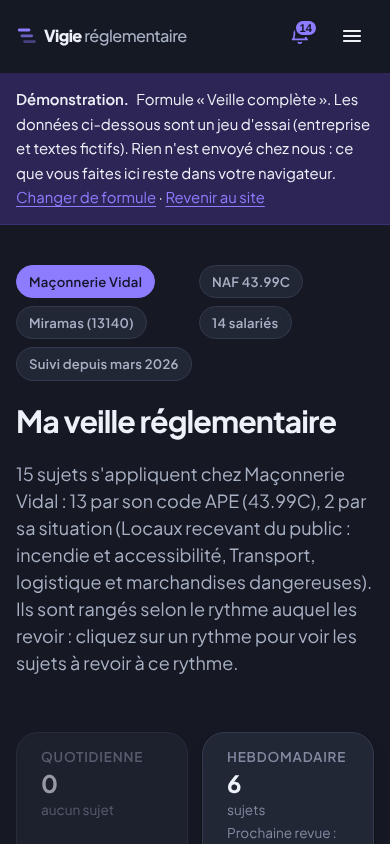
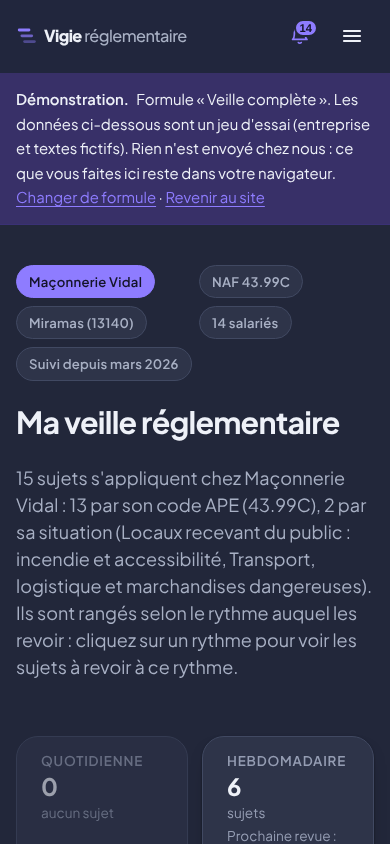
Harmonisation de tout le site, mode sombre éclairci, téléchargements en haut à droite des tableaux
- Une seule échelle de titres (page, section, carte), des textes alignés à
  gauche sans mots coupés, des cartes aux mêmes arrondis, marges et
  espacements.
- Pleine largeur : Réglages (cartes en deux colonnes), Mon compte, paiement,
  pages légales (sommaire à gauche).
- Mode sombre : fonds, cartes et filets éclaircis d'un cran.
- Accueil : « 732 codes APE couverts » retiré du haut de page.
- Captures refaites.

Claude-Session: https://claude.ai/code/session_018eHCodhqxxzNvWMueTAwHN

diff --git a/assets/site.css b/assets/site.css
@@ -75,22 +75,23 @@
        d'accent plus claire et plus saturée que celle du clair — sur du
        quasi-noir, l'indigo du jour devient gris.
        3 novembre 2026 : fonds et cartes éclaircis d'un cran, à la demande
-       d'Axel (« légèrement plus clair »). */
+       d'Axel (« légèrement plus clair ») ; 4 novembre 2026 : encore un cran
+       (« c'est trop foncé »). */
     --accent:        #8E7CFF;
     --accent-fonce:  #A99BFF;
-    --accent-clair:  #2C2556;
+    --accent-clair:  #383068;
     --accent-filet:  #3A3175;
     --encre:         #EEF1F8;
     --encre-douce:   #A8B0C4;
-    --encre-tenue:   #828AA0;
-    --papier:        #161923;
-    --papier-tein:   #1C202D;
-    --papier-pale:   #191C27;
-    --carte:         #222736;
-    --carte-pale:    #282E3F;
-    --creme:         #201E30;
-    --filet:         #333A4E;
-    --filet-fort:    #485069;
+    --encre-tenue:   #959DB3;
+    --papier:        #22273A;
+    --papier-tein:   #292F44;
+    --papier-pale:   #252A3E;
+    --carte:         #2E3449;
+    --carte-pale:    #353C53;
+    --creme:         #2C2A42;
+    --filet:         #414962;
+    --filet-fort:    #58617D;
     --filet-controle:#8C94AB;
     --vert:          #4ADE94;
     --vert-fond:     #0D3326;
@@ -106,7 +107,7 @@
        dégradé du thème clair, traduit arrêt par arrêt, virait au brun verdâtre. */
     --degrade-heros: radial-gradient(118% 86% at 16% -8%, rgba(142, 124, 255, .26), transparent 58%),
                      radial-gradient(96% 76% at 88% 6%, rgba(72, 196, 180, .13), transparent 54%),
-                     linear-gradient(180deg, #1D2130 0%, #161923 100%);
+                     linear-gradient(180deg, #2A2F44 0%, #22273A 100%);
     --degrade-puce:  linear-gradient(135deg, #2C2560, #1E2C4E 55%, #2A2168);
     --fil-rail:      linear-gradient(180deg, #4A3F93, #2C5467 45%, #4A3F93);
     --ombre-1: 0 1px 2px rgba(0, 0, 0, .5), 0 10px 24px -16px rgba(0, 0, 0, .8);
@@ -125,19 +126,19 @@
      3 novembre 2026 : fonds et cartes éclaircis d'un cran. */
   --accent:        #8E7CFF;
   --accent-fonce:  #A99BFF;
-  --accent-clair:  #2C2556;
+  --accent-clair:  #383068;
   --accent-filet:  #3A3175;
   --encre:         #EEF1F8;
   --encre-douce:   #A8B0C4;
-  --encre-tenue:   #828AA0;
-  --papier:        #161923;
-  --papier-tein:   #1C202D;
-  --papier-pale:   #191C27;
-  --carte:         #222736;
-  --carte-pale:    #282E3F;
-  --creme:         #201E30;
-  --filet:         #333A4E;
-  --filet-fort:    #485069;
+  --encre-tenue:   #959DB3;
+  --papier:        #22273A;
+  --papier-tein:   #292F44;
+  --papier-pale:   #252A3E;
+  --carte:         #2E3449;
+  --carte-pale:    #353C53;
+  --creme:         #2C2A42;
+  --filet:         #414962;
+  --filet-fort:    #58617D;
   --filet-controle:#8C94AB;
   --vert:          #4ADE94;
   --vert-fond:     #0D3326;
@@ -151,7 +152,7 @@
      dégradé du thème clair, traduit arrêt par arrêt, virait au brun verdâtre. */
   --degrade-heros: radial-gradient(118% 86% at 16% -8%, rgba(142, 124, 255, .26), transparent 58%),
                    radial-gradient(96% 76% at 88% 6%, rgba(72, 196, 180, .13), transparent 54%),
-                   linear-gradient(180deg, #1D2130 0%, #161923 100%);
+                   linear-gradient(180deg, #2A2F44 0%, #22273A 100%);
   --degrade-puce:  linear-gradient(135deg, #2C2560, #1E2C4E 55%, #2A2168);
   --fil-rail:      linear-gradient(180deg, #4A3F93, #2C5467 45%, #4A3F93);
   --ombre-1: 0 1px 2px rgba(0, 0, 0, .5), 0 10px 24px -16px rgba(0, 0, 0, .8);
@@ -4018,3 +4019,119 @@ a.puce-fixe { text-decoration: none; color: inherit; }
 @media (max-width: 21.5rem) { .marque .marque-suite { display: none; } }
 /* Présentation : quatre captures, en 2 × 2 (4 novembre 2026). */
 @media (min-width: 48rem) { .pieces { grid-template-columns: repeat(2, minmax(0, 1fr)) !important; } }
+
+/* ==========================================================================
+   Harmonisation de tout le site (4 novembre 2026, demande d'Axel)
+   --------------------------------------------------------------------------
+   Une seule échelle pour tout le site : une taille de titre de page, une de
+   titre de section, une de titre de carte ; des cartes aux mêmes arrondis,
+   marges et espacements ; des textes alignés à gauche, sans coupure de mots ;
+   et des pages qui occupent toute la largeur (Réglages, Mon compte, paiement,
+   pages légales). Ce bloc vient en dernier : il l'emporte sur les réglages
+   page par page posés plus haut.
+   ========================================================================== */
+:root {
+  --h1-site: clamp(1.9rem, 1.45rem + 1.4vw, 2.6rem);
+  --h2-site: clamp(1.4rem, 1.2rem + .7vw, 1.8rem);
+  --h3-site: 1.1rem;
+  --chapeau-site: clamp(1rem, .96rem + .25vw, 1.12rem);
+  --rayon-carte: 12px;
+  --marge-carte: clamp(1.15rem, 1rem + .5vw, 1.5rem);
+  --ecart-cartes: clamp(.9rem, .75rem + .5vw, 1.25rem);
+  --ombre-carte: 0 1px 2px rgba(16, 24, 40, .05);
+}
+
+/* --- Titres ---------------------------------------------------------------- */
+h1, .heros h1, .tete-app h1, .cs-tete h1, .compte-tete h1, .auth-tete h1,
+[data-page="reglages"] .tete-reglages h1, [data-page="compte"] .compte-tete h1, [data-page="admin"] h1 {
+  font-size: var(--h1-site); line-height: 1.15; letter-spacing: -.025em; font-weight: 700;
+}
+.heros h1 { max-width: 28ch; }
+h2, .titre-section { font-size: var(--h2-site); line-height: 1.2; letter-spacing: -.02em; }
+h3 { font-size: var(--h3-site); line-height: 1.35; letter-spacing: -.01em; }
+/* Les titres de carte (réglages, compte, cabinet, conformité) : la taille d'un h3. */
+.rg-tete h2, .cs-titre, [data-page="compte"] .carte-connexion h2, .carte-connexion h2,
+.ne-fait-pas .titre-section, [data-page="admin"] .titre-section { font-size: var(--h3-site); letter-spacing: -.01em; }
+.heros-sous, .tete-app .lecture, .rg-chapeau, .auth-tete p, .cs-tete .etat-compte {
+  font-size: var(--chapeau-site); line-height: 1.55;
+}
+.tete-app .lecture { max-width: 80ch; }
+.heros { padding-block: clamp(2.5rem, 1.6rem + 3vw, 4.5rem); }
+
+/* --- Textes : à gauche, sans mots coupés ------------------------------------ */
+.zone-public .trait p, .zone-public .raison p, .zone-public .norme p,
+.zone-public .faq-reponse p, .zone-public .faq-reponse li,
+.zone-public .lecture, .zone-public .reserve, .zone-public .piece p,
+.zone-public .legende li, .zone-public .formule-donne li, .zone-public .normes-intro,
+.zone-public .installation p, .zone-public .resultat .note-source,
+main .lecture, main .note-source, main li, main p {
+  text-align: left; hyphens: manual;
+}
+/* Ce qui est centré exprès le reste : en-têtes, étapes, titres de section. */
+.heros-texte, .heros-sous, .titre-section, .intro.titre-section,
+.zone-public .etape :is(h3, p), [data-page="presentation"] .heros .etape :is(h3, p),
+.zone-public .raisons-deux .raison p { text-align: center; }
+.formule-donne li { font-size: .95rem; line-height: 1.5; font-weight: 400; }
+.formule-donne li:first-child { font-weight: 500; }
+
+/* --- Cartes : mêmes arrondis, marges, ombre et espacements ------------------- */
+.formule, .piece, .etape, .rg-carte, .carte-connexion, .admin-entreprise, .cs-cadre,
+.raison, .trait, .norme, .compteurs > div, .faits > div, .reserve, .rg-note, .textes-attente {
+  border-radius: var(--rayon-carte);
+}
+.formule, .piece, .etape, .carte-connexion, .admin-entreprise, .raison, .trait, .norme,
+.compteurs > div, .faits > div {
+  box-shadow: var(--ombre-carte);
+}
+.formule, .carte-connexion, .admin-entreprise, .raison, .trait, .norme { padding: var(--marge-carte); }
+.compteurs > div, .faits > div { padding: clamp(1rem, .9rem + .4vw, 1.35rem) var(--marge-carte); }
+.formules, .pieces, .admin-grille, .raisons, .normes, .etapes, .compteurs, .faits, .rg-form, .rg-alertes {
+  gap: var(--ecart-cartes);
+}
+.compteurs .grand { font-size: clamp(1.6rem, 1.3rem + .9vw, 2.1rem); }
+.compteurs dt { font-size: .74rem; letter-spacing: .06em; }
+.reserve { padding: var(--marge-carte); }
+
+/* --- Pleine largeur --------------------------------------------------------- */
+/* Réglages : les cartes sur toute la largeur, deux par ligne au bureau. */
+.rg-form, .rg-danger, .rg-note { max-width: none; }
+@media (min-width: 72rem) {
+  #form-entreprise { grid-template-columns: repeat(2, minmax(0, 1fr)); align-items: start; }
+  #form-entreprise > :nth-child(n+3) { grid-column: 1 / -1; }
+  #form-entreprise .rg-ligne { grid-template-columns: 12rem minmax(0, 1fr); }
+  .rg-cases { grid-template-columns: repeat(3, minmax(0, 1fr)); }
+  .rg-alertes { grid-template-columns: repeat(2, minmax(0, 1fr)); }
+}
+/* Mon compte : l'en-tête et les cartes sur toute la largeur, en deux colonnes. */
+[data-page="compte"] .compte-tete, [data-page="compte"] .connexion-seule { max-width: none; }
+@media (min-width: 64rem) {
+  [data-page="compte"] #compte-principal { display: grid; grid-template-columns: repeat(2, minmax(0, 1fr)); gap: var(--ecart-cartes); align-items: start; }
+  [data-page="compte"] #compte-principal > * + * { margin-top: 0; }
+  [data-page="compte"] #compte-principal > :not(.carte-connexion):not(div) { grid-column: 1 / -1; }
+  [data-page="compte"] #compte-principal > .rangee { grid-column: 1 / -1; }
+}
+/* Le paiement : récapitulatif et choix côte à côte. */
+#paiement.connexion-seule { max-width: none; }
+@media (min-width: 64rem) {
+  #paie-formulaire { display: grid; grid-template-columns: repeat(2, minmax(0, 1fr)); gap: var(--ecart-cartes); align-items: start; }
+  #paie-formulaire > :not(.carte-connexion) { grid-column: 1 / -1; }
+}
+/* Pages légales : le sommaire à gauche, le texte sur le reste de la largeur. */
+.legal { max-width: none; }
+@media (min-width: 64rem) {
+  .legal { display: grid; grid-template-columns: 17rem minmax(0, 1fr); column-gap: clamp(2rem, 1rem + 3vw, 4rem); }
+  .legal > * { grid-column: 2; }
+  .legal > .legal-sommaire { grid-column: 1; grid-row: 1 / span 40; align-self: start; position: sticky; top: 6.5rem; }
+  .legal-sommaire ol { columns: 1 !important; display: block; }
+  .legal-sommaire li { margin: 0 0 .5rem; }
+}
+.legal-sommaire { border-radius: var(--rayon-carte); }
+.legal-article h2 { font-size: var(--h2-site); }
+.section-contact h1, [data-page="contact"] h1 { font-size: var(--h1-site); }
+/* Télécharger un tableau : en haut à droite du tableau. */
+.export-barre { justify-content: flex-end; }
+.export-barre .export-etat { order: -1; margin-right: auto; }
+
+/* Titres de rubrique (« Les textes de votre plan… ») : la taille d'un h2,
+   pas plus grand que le titre de la page. */
+.rubrique > .enveloppe > h2 { font-size: var(--h2-site); }
